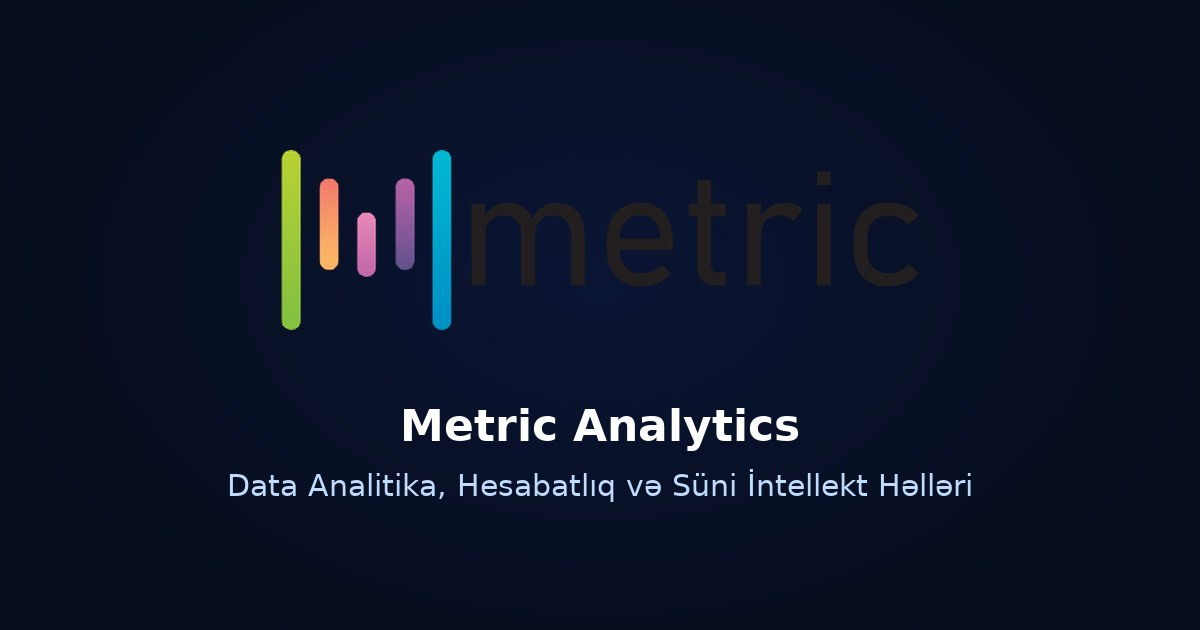
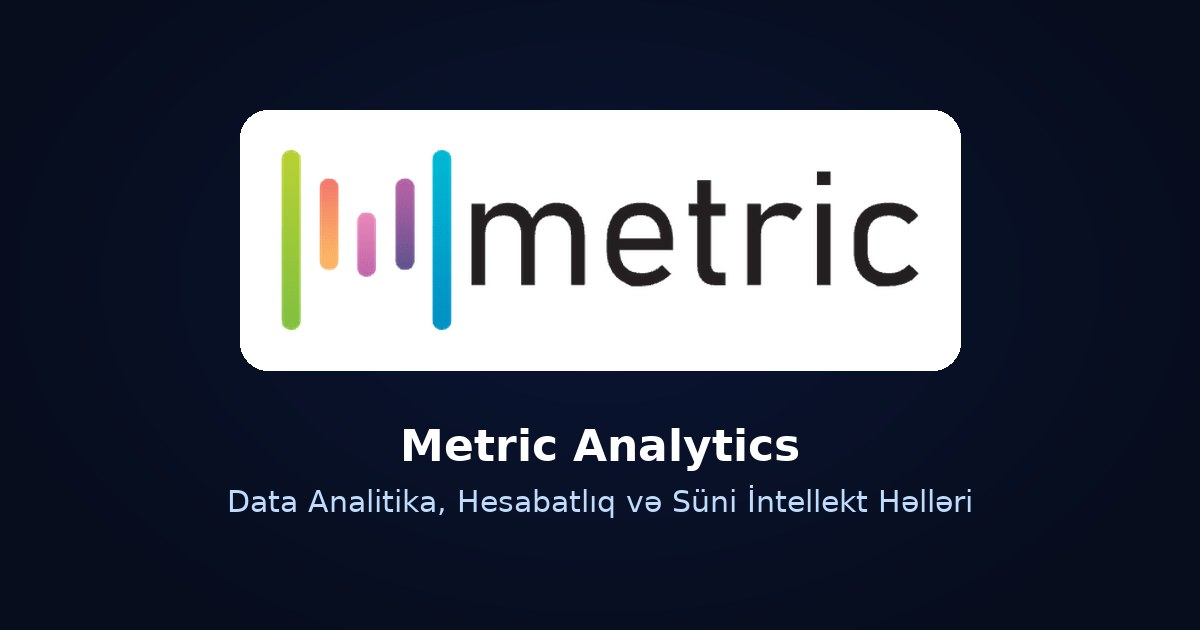
Changes

Changed region(s): [[0.185, 0.1508, 0.8017, 0.6032], [0.185, 0.6333, 0.8325, 0.8143]]

diff --git a/index.html b/index.html
@@ -16,15 +16,17 @@
     <meta property="og:type" content="website" />
     <meta property="og:url" content="https://metric.az/" />
     <meta property="og:locale" content="az_AZ" />
-    <meta property="og:image" content="https://metric.az/og-image.jpg" />
+    <meta property="og:image" content="https://metric.az/og-image-v2.jpg" />
+    <meta property="og:image:secure_url" content="https://metric.az/og-image-v2.jpg" />
+    <meta property="og:image:type" content="image/jpeg" />
     <meta property="og:image:width" content="1200" />
-    <meta property="og:image:height" content="640" />
-    <meta property="og:image:alt" content="Metric Analytics - data analitika və Power BI həlləri" />
+    <meta property="og:image:height" content="630" />
+    <meta property="og:image:alt" content="Metric Analytics — Data Analitika, Hesabatlıq və Süni İntellekt Həlləri" />
 
     <meta name="twitter:card" content="summary_large_image" />
     <meta name="twitter:title" content="Metric Analytics: Analitika və Süni İntellekt Həlləri" />
     <meta name="twitter:description" content="Analitik hesabatlar, smart bildirişlər, süni intellekt və fraud aşkarlama həlləri təqdim edirik. Biznesinizi data əsaslı idarə edin." />
-    <meta name="twitter:image" content="https://metric.az/og-image.jpg" />
+    <meta name="twitter:image" content="https://metric.az/og-image-v2.jpg" />
 
     <script type="application/ld+json">
       {

diff --git a/src/components/Seo.tsx b/src/components/Seo.tsx
@@ -90,8 +90,10 @@ export default function Seo() {
       setMeta("property", "og:type", "website");
       setMeta("property", "og:locale", OG_LOCALE[lang]);
       setMeta("property", "og:image", OG_IMAGE);
+      setMeta("property", "og:image:secure_url", OG_IMAGE);
+      setMeta("property", "og:image:type", "image/jpeg");
       setMeta("property", "og:image:width", "1200");
-      setMeta("property", "og:image:height", "640");
+      setMeta("property", "og:image:height", "630");
       setMeta("property", "og:image:alt", OG_IMAGE_ALT);
       setMeta("name", "twitter:title", nf.title);
       setMeta("name", "twitter:description", nf.description);
@@ -112,8 +114,10 @@ export default function Seo() {
     setMeta("property", "og:type", seo.ogType);
     setMeta("property", "og:locale", seo.ogLocale);
     setMeta("property", "og:image", seo.ogImage);
+    setMeta("property", "og:image:secure_url", seo.ogImage);
+    setMeta("property", "og:image:type", "image/jpeg");
     setMeta("property", "og:image:width", "1200");
-    setMeta("property", "og:image:height", "640");
+    setMeta("property", "og:image:height", "630");
     setMeta("property", "og:image:alt", seo.ogImageAlt);
     setMeta("name", "twitter:title", seo.title);
     setMeta("name", "twitter:description", seo.description);

diff --git a/src/seo/config.ts b/src/seo/config.ts
@@ -19,8 +19,8 @@ import {
 } from "@/i18n/routes";
 
 export const SITE = "https://metric.az";
-export const OG_IMAGE = `${SITE}/og-image.jpg`;
-export const OG_IMAGE_ALT = "Metric Analytics - data analitika və Power BI həlləri";
+export const OG_IMAGE = `${SITE}/og-image-v2.jpg`;
+export const OG_IMAGE_ALT = "Metric Analytics — Data Analitika, Hesabatlıq və Süni İntellekt Həlləri";
 
 export { LANGS, DEFAULT_LANG, HTML_LANG, OG_LOCALE, canonicalPath, langFromPath, alternatesForPath };
 export type { Lang };
